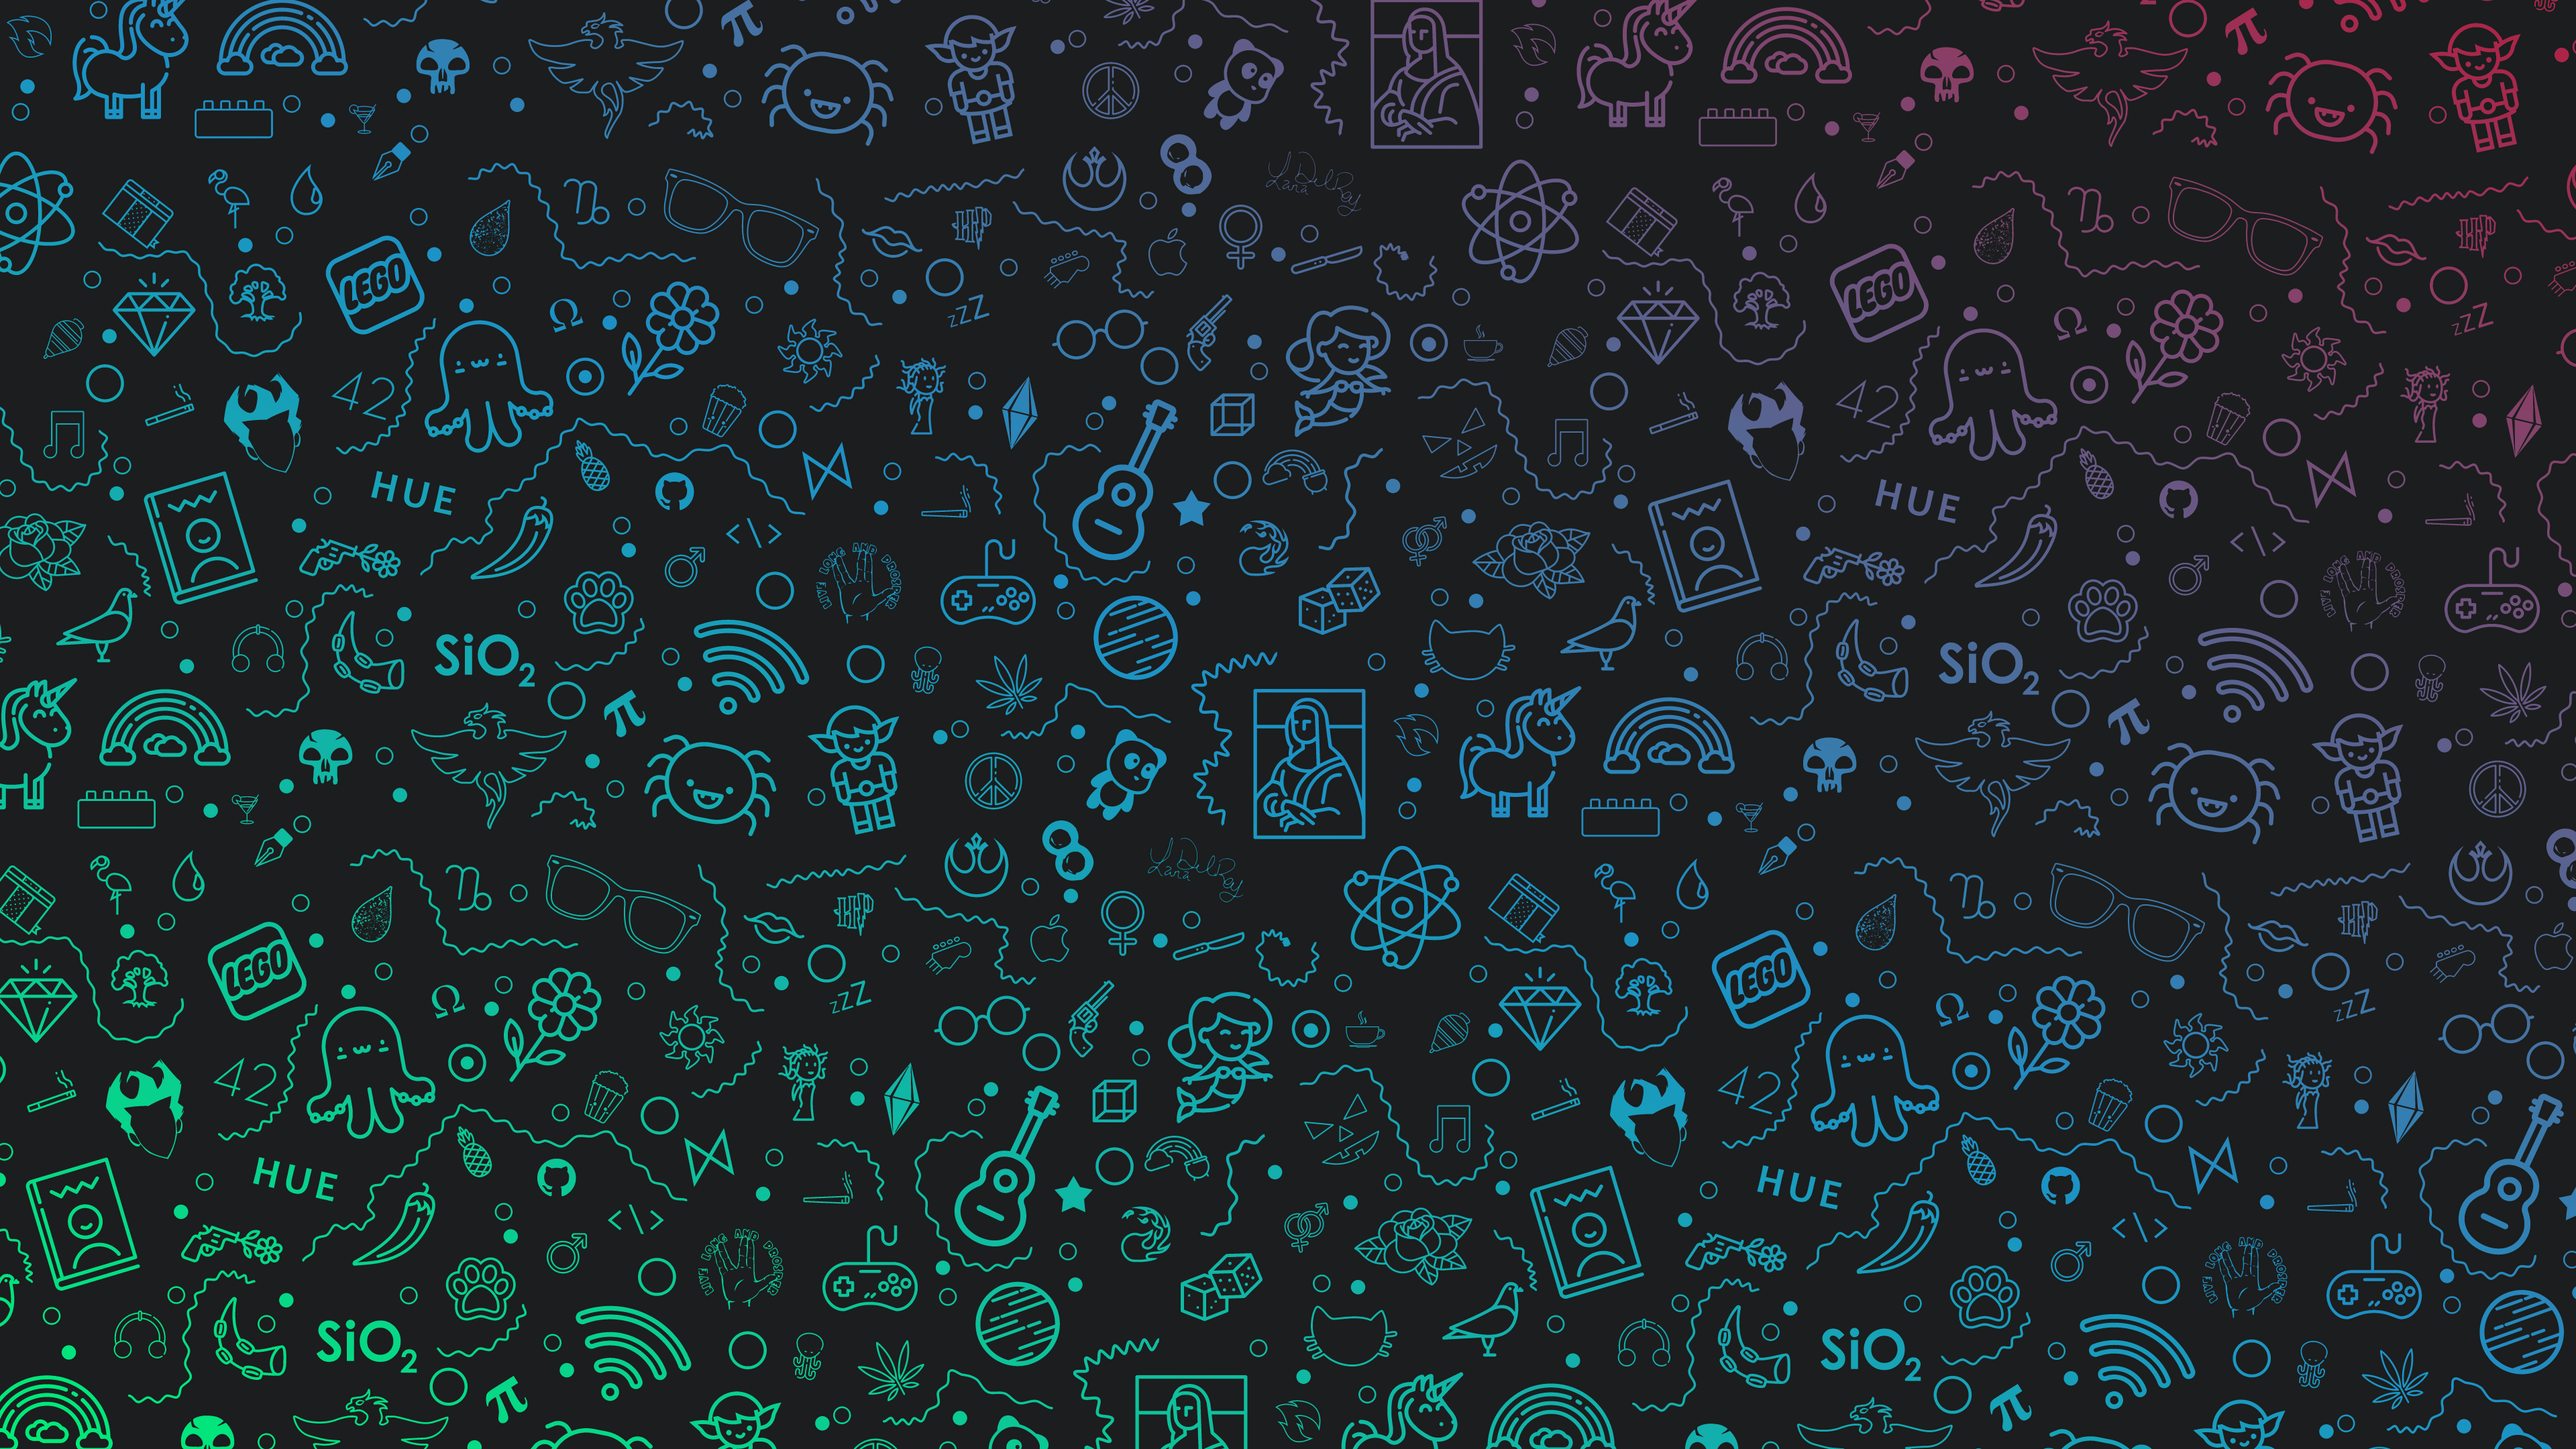
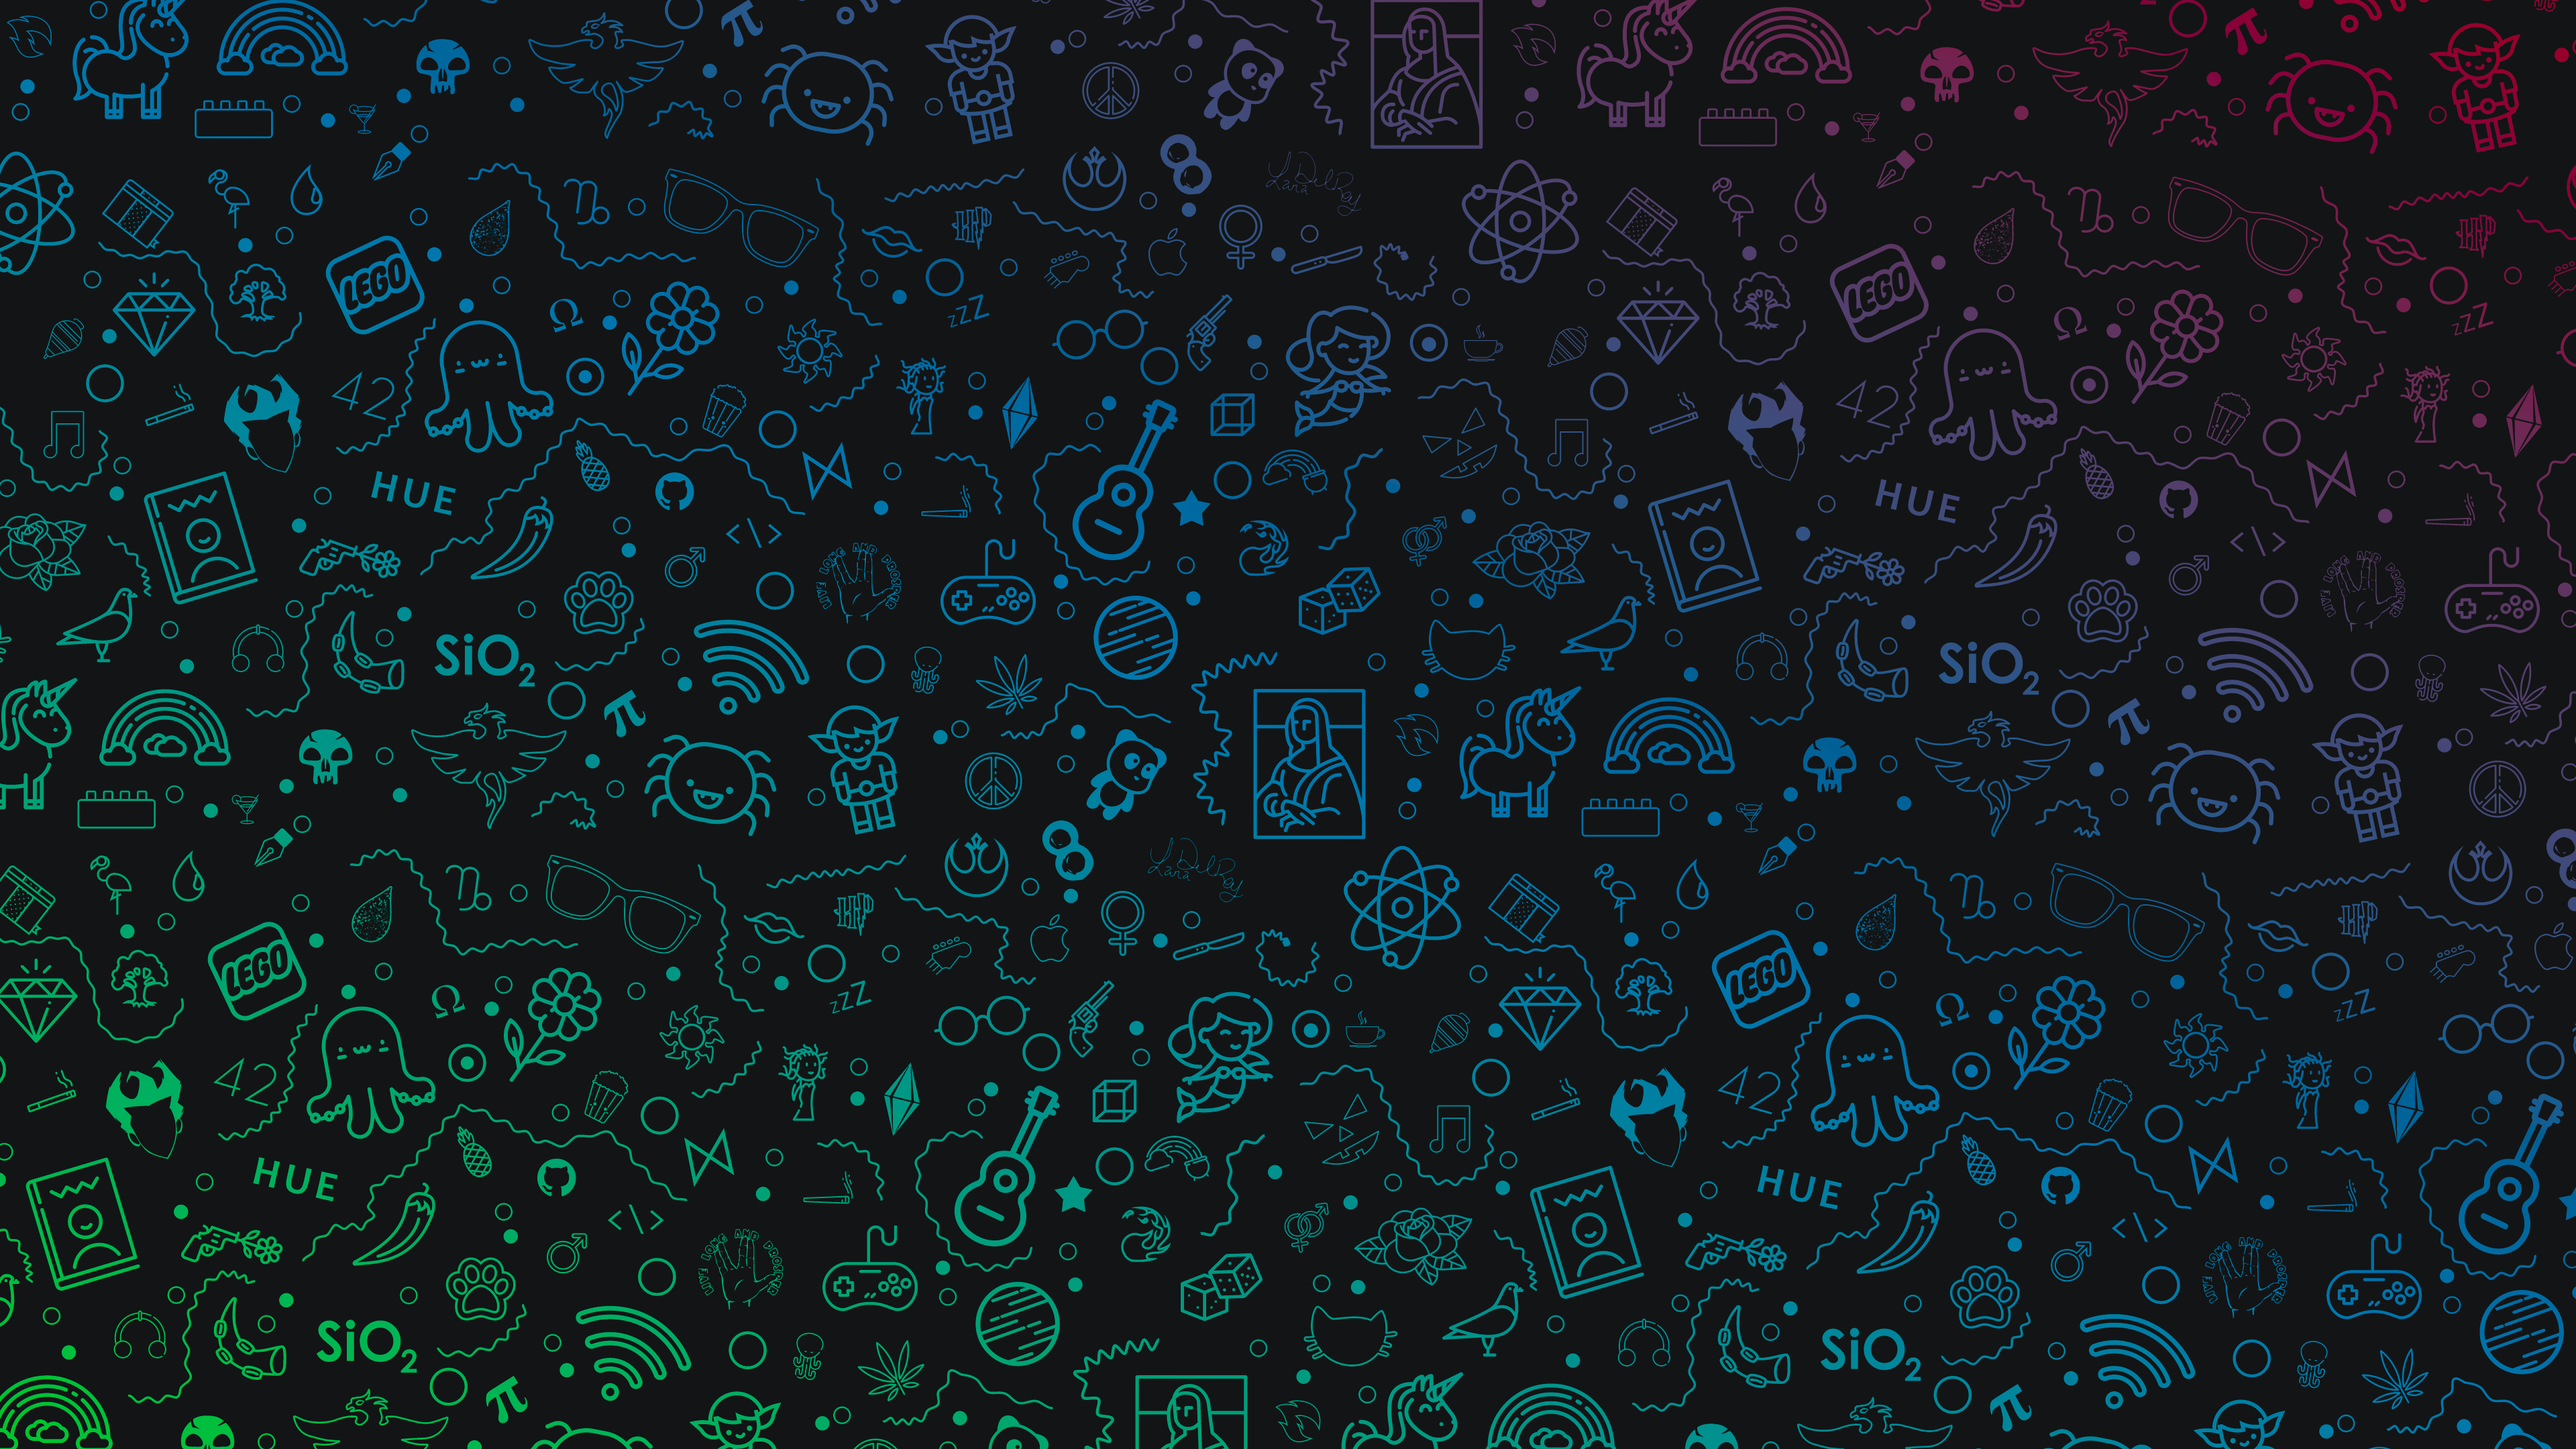
A lot of UI work

diff --git a/src/components/taskbar.jsx b/src/components/taskbar.jsx
@@ -1,6 +1,5 @@
 import React from 'react';
 
-// Crisp Inline SVG icons
 const Icons = {
   Terminal: () => (
     <svg width="20" height="20" viewBox="0 0 24 24" fill="none" stroke="currentColor" strokeWidth="2" strokeLinecap="round" strokeLinejoin="round">
@@ -31,9 +30,19 @@ const Icons = {
   )
 };
 
-const Taskbar = () => {
+const Taskbar = ({ isCliMinimized, onToggleCli }) => {
   const socials = [
-    { id: 'terminal', label: 'CLI Terminal', icon: <Icons.Terminal />, href: '#', active: true, color: '#38edf8' },
+    { 
+      id: 'terminal', 
+      label: isCliMinimized ? 'Open CLI Terminal' : 'Minimize CLI Terminal', 
+      icon: <Icons.Terminal />, 
+      active: true, 
+      color: '#38edf8',
+      onClick: (e) => {
+        e.preventDefault();
+        onToggleCli();
+      }
+    },
     { id: 'github', label: 'GitHub', icon: <Icons.Github />, href: 'https://github.com/your-username', active: false, color: '#f8fafc' },
     { id: 'linkedin', label: 'LinkedIn', icon: <Icons.Linkedin />, href: 'https://linkedin.com/in/your-username', active: false, color: '#0a66c2' },
     { id: 'twitter', label: 'X / Twitter', icon: <Icons.Twitter />, href: 'https://x.com/your-username', active: false, color: '#ffffff' },
@@ -72,6 +81,7 @@ const Taskbar = () => {
           flex-direction: column;
           align-items: center;
           text-decoration: none;
+          cursor: pointer;
         }
 
         .icon-tile {
@@ -88,7 +98,6 @@ const Taskbar = () => {
           transition: transform 0.22s cubic-bezier(0.34, 1.56, 0.64, 1), background 0.2s, border-color 0.2s, color 0.2s;
         }
 
-        /* Tooltip styled with Montserrat */
         .dock-tooltip {
           position: absolute;
           top: -42px;
@@ -107,7 +116,6 @@ const Taskbar = () => {
           transition: all 0.2s ease;
         }
 
-        /* Hover effect customized per brand color */
         .dock-item:hover .icon-tile {
           transform: scale(1.1) translateY(-8px);
           background: var(--brand-color);
@@ -119,38 +127,56 @@ const Taskbar = () => {
           opacity: 1;
           transform: translateY(0);
         }
+
+        .active-dot {
+          width: 4px;
+          height: 4px;
+          border-radius: 50%;
+          margin-top: 4px;
+          transition: opacity 0.3s;
+        }
+
+        .active-dot.is-active {
+          background-color: var(--brand-color);
+          box-shadow: 0 0 8px var(--brand-color);
+          animation: dot-blink 1.2s ease-in-out infinite alternate;
+        }
+
+        @keyframes dot-blink {
+          0% {
+            opacity: 0.25;
+            box-shadow: 0 0 2px var(--brand-color);
+            transform: scale(0.85);
+          }
+          100% {
+            opacity: 1;
+            box-shadow: 0 0 10px var(--brand-color);
+            transform: scale(1.1);
+          }
+        }
       `}</style>
 
       <div className="cli-dock">
         {socials.map((item) => (
           <a
             key={item.id}
-            href={item.href}
-            target={item.href.startsWith('http') ? "_blank" : "_self"}
+            href={item.href || '#'}
+            onClick={item.onClick}
+            target={item.href && item.href.startsWith('http') ? "_blank" : "_self"}
             rel="noopener noreferrer"
             className="dock-item"
             style={{ '--brand-color': item.color }}
           >
-            {/* Tooltip Tag */}
             <div className="dock-tooltip">
               {item.label}
             </div>
 
-            {/* Icon Tile Box */}
             <div className="icon-tile">
               {item.icon}
             </div>
 
-            {/* Active Indicator Dot */}
             <span
-              style={{
-                width: '4px',
-                height: '4px',
-                borderRadius: '50%',
-                backgroundColor: item.active ? item.color : 'transparent',
-                marginTop: '4px',
-                boxShadow: item.active ? `0 0 8px ${item.color}` : 'none',
-              }}
+              className={`active-dot ${item.active && !isCliMinimized ? 'is-active' : ''}`}
             />
           </a>
         ))}

diff --git a/src/components/cmd.jsx b/src/components/cmd.jsx
@@ -63,14 +63,15 @@ const Cmd = () => {
         top: '50%',
         left: '50%',
         transform: 'translate(-50%, -50%)',
-        width: '50vw',
-        height: '70vh',
-        background: 'rgba(0, 0, 0, 0.39)',
+        width: '60vw',
+        height: '75vh',
+        background: 'rgba(0, 0, 0, 0.18)',
         borderRadius: '10px',
         display: 'flex',
         flexDirection: 'column',
         overflow: 'hidden',
-        boxSizing: 'border-box'
+        boxSizing: 'border-box',
+        fontFamily: "'Montserrat', monospace"
       }}
     >
       {/* Title Bar */}
@@ -101,7 +102,9 @@ const Cmd = () => {
               transform: 'translateX(-50%)',
               color: 'gray',
               fontSize: '13px',
-              whiteSpace: 'nowrap'
+              fontWeight: 500,
+              whiteSpace: 'nowrap',
+              fontFamily: "'Montserrat', sans-serif"
             }}
           >
             Developer Portfolio - Dresucas | 2026
@@ -116,23 +119,25 @@ const Cmd = () => {
           padding: '20px',
           overflowY: 'auto',
           textAlign: 'left',
-          fontFamily: 'monospace',
+          fontFamily: "'Montserrat', monospace",
           color: '#38edf8'
         }}
       >
         {/* Animated Heading */}
         <h1 style={{ 
           fontSize: '1rem', 
+          fontWeight: 600,
           margin: '0 0 10px 0', 
-          letterSpacing: '2px',
+          letterSpacing: '1px',
           display: 'flex',
-          alignItems: 'center'
+          alignItems: 'center',
+          fontFamily: "'Montserrat', monospace"
         }}>
           {displayedText}
           {!headingFinished && (
             <span style={{
               display: 'inline-block',
-              width: '12px',
+              width: '10px',
               height: '1.2em',
               backgroundColor: '#38edf8',
               marginLeft: '8px'
@@ -146,13 +151,13 @@ const Cmd = () => {
             
             {/* Printed Output History */}
             {history.map((item, idx) => (
-              <div key={idx} style={{ marginBottom: '10px', fontSize: '1rem' }}>
+              <div key={idx} style={{ marginBottom: '10px', fontSize: '1rem', fontFamily: "'Montserrat', monospace" }}>
                 <div style={{ display: 'flex', alignItems: 'center' }}>
-                  <span style={{ color: '#34d399', marginRight: '8px' }}>❯</span>
-                  <span>{item.command}</span>
+                  <span style={{ color: '#34d399', marginRight: '8px', fontWeight: 700 }}>❯</span>
+                  <span style={{ fontWeight: 500 }}>{item.command}</span>
                 </div>
                 {item.response && (
-                  <div style={{ color: '#94a3b8', whiteSpace: 'pre-wrap', marginTop: '4px', marginLeft: '16px' }}>
+                  <div style={{ color: '#94a3b8', whiteSpace: 'pre-wrap', marginTop: '4px', marginLeft: '16px', fontWeight: 400 }}>
                     {item.response}
                   </div>
                 )}
@@ -161,7 +166,7 @@ const Cmd = () => {
 
             {/* Active Input Line */}
             <div style={{ display: 'flex', alignItems: 'center' }}>
-              <span style={{ color: '#34d399', marginRight: '8px' }}>❯</span>
+              <span style={{ color: '#34d399', marginRight: '8px', fontWeight: 700 }}>❯</span>
               <input
                 type="text"
                 value={inputVal}
@@ -173,8 +178,9 @@ const Cmd = () => {
                   border: 'none',
                   outline: 'none',
                   color: '#38edf8',
-                  fontFamily: 'monospace',
+                  fontFamily: "'Montserrat', monospace",
                   fontSize: '1rem',
+                  fontWeight: 500,
                   width: '100%'
                 }}
               />

diff --git a/src/App.jsx b/src/App.jsx
@@ -1,34 +1,46 @@
+import { useState } from 'react';
 import Cmd from './components/cmd';
 import Taskbar from './components/taskbar';
 
-function App(){
-  return(
+function App() {
+  const [isMinimized, setIsMinimized] = useState(false);
+
+  const toggleCmd = () => {
+    setIsMinimized((prev) => !prev);
+  };
+
+  return (
     <div>
-<div
-  style={{
-    height: '70vh',
-    width: '50vw',
-    borderRadius: '10px',
-    background: 'rgba(0, 0, 0, 0.22)',
-    backdropFilter:'blur(5px)',
-    
-boxShadow: '0 40px 25px -5px rgba(0, 0, 0, 0.5), 0 8px 10px -6px rgba(0, 0, 0, 0.3)',
-    padding: '10px',
-    position: 'fixed',
-    top: '50%',
-    left: '50%',
-    transform: 'translate(-50%, -50%)',
-    boxSizing: 'border-box' // Prevents padding from breaking 50vh/50vw size
-  }}
->
-      <Cmd />
+      <div
+        className={`cmd-window ${isMinimized ? 'minimized' : ''}`}
+        style={{
+          height: '75vh',
+          width: '60vw',
+          borderRadius: '12px',
+          background: 'rgba(0, 0, 0, 0.45)',
+          backdropFilter: 'blur(12px)',
+          WebkitBackdropFilter: 'blur(12px)',
+          boxShadow: '0 30px 40px rgba(0, 0, 0, 0.5), 0 0 0 1px rgba(255, 255, 255, 0.1) inset',
+          padding: '10px',
+          position: 'fixed',
+          top: '50%',
+          left: '50%',
+            transform: 'translate(-50%, -55%)',
+          boxSizing: 'border-box',
+          
+          /* Anchor to center-bottom of window */
+          transformOrigin: 'center bottom',
+          
+          /* Perfectly symmetrical 0.35s ease for both entry and exit */
+          transition: 'transform 0.35s cubic-bezier(0.16, 1, 0.3, 1), opacity 0.35s cubic-bezier(0.16, 1, 0.3, 1), visibility 0.35s'
+        }}
+      >
+        <Cmd />
+      </div>
+
+      <Taskbar isCliMinimized={isMinimized} onToggleCli={toggleCmd} />
     </div>
-    <Taskbar/>
-    </div>
-
-
-
-  )
+  );
 }
 
 export default App;

diff --git a/src/index.css b/src/index.css
@@ -3,8 +3,32 @@ body {
   background-size: cover;
   background-position: center;
   background-repeat: no-repeat;
-  
+  margin: 0;
+  padding: 0;
   min-height: 100vh;
 overflow: hidden;
 }
 
+/* Base Window Layer */
+.cmd-window {
+  /* Using translate3d prevents layout recalculations */
+  transform: translate3d(-50%, -50%, 0) scale(1);
+  opacity: 1;
+  visibility: visible;
+  pointer-events: auto;
+}
+/* Open State */
+.cmd-window {
+  transform: translate(-50%, -50%) scale(1);
+  opacity: 1;
+  visibility: visible;
+}
+
+/* Exit State: Symmetrical soft fade & subtle drop */
+.cmd-window.minimized {
+  /* Soft 15% scale-down with a slight downward dip toward dock */
+  transform: translate(-50%, calc(-50% + 40px)) scale(0.85);
+  opacity: 0;
+  visibility: hidden;
+  pointer-events: none;
+}
